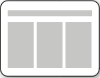
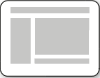
new images and css changes (added new template)

diff --git a/stylesheets/templates/pack1.css b/stylesheets/templates/pack1.css
@@ -130,9 +130,9 @@
 }
 
 .t3_left{
-	margin-top:5px;
+	margin-top:11px;
 	position:relative;
-	width: 30%;
+	width: 33%;
 	height: 90%;
 	float: left;
 	border: 2px double transparent;
@@ -142,19 +142,19 @@
 }
 
 .t3_center{
-	margin-top: 5px;
+	margin-top: 11px;
 	position:relative;
-	width: 30%;
-	height: 90%;
+	width: 65%;
+	height: 75%;
 	float: left;
 	font-size: 18px;
 	overflow:hidden;	
 }
 .t3_right{
-	margin-top: 5px;
+	margin-top: 12px;
 	position:relative;
-	width: 30%;
-	height: 90%;
+	width: 65%;
+	height: 12%;
 	float: left;
 	font-size: 18px;
 	overflow:hidden;	

diff --git a/stylesheets/editor.css b/stylesheets/editor.css
@@ -85,14 +85,14 @@
 
 .documentblank {
 	position:absolute;
-	margin-left: 360px;
+	margin-left: 365px;
 	margin-top: 140px;
 }
 
 .buttonaddfancy {
 	position:absolute;
 	margin-top: 217px;
-	margin-left: 475px;	
+	margin-left: 483px;	
     display: inline;
 	text-decoration:none;
     background: #CCC repeat-x bottom !important;
@@ -709,8 +709,8 @@ table.metadata td div.height_wrapper_description{
 
 .buttonfancy {
 	position:absolute;
-	margin-left: 551px;
-	margin-top:65px;
+	margin-left: 560px;
+	margin-top:75px;
 }
 	
 .button:active {
